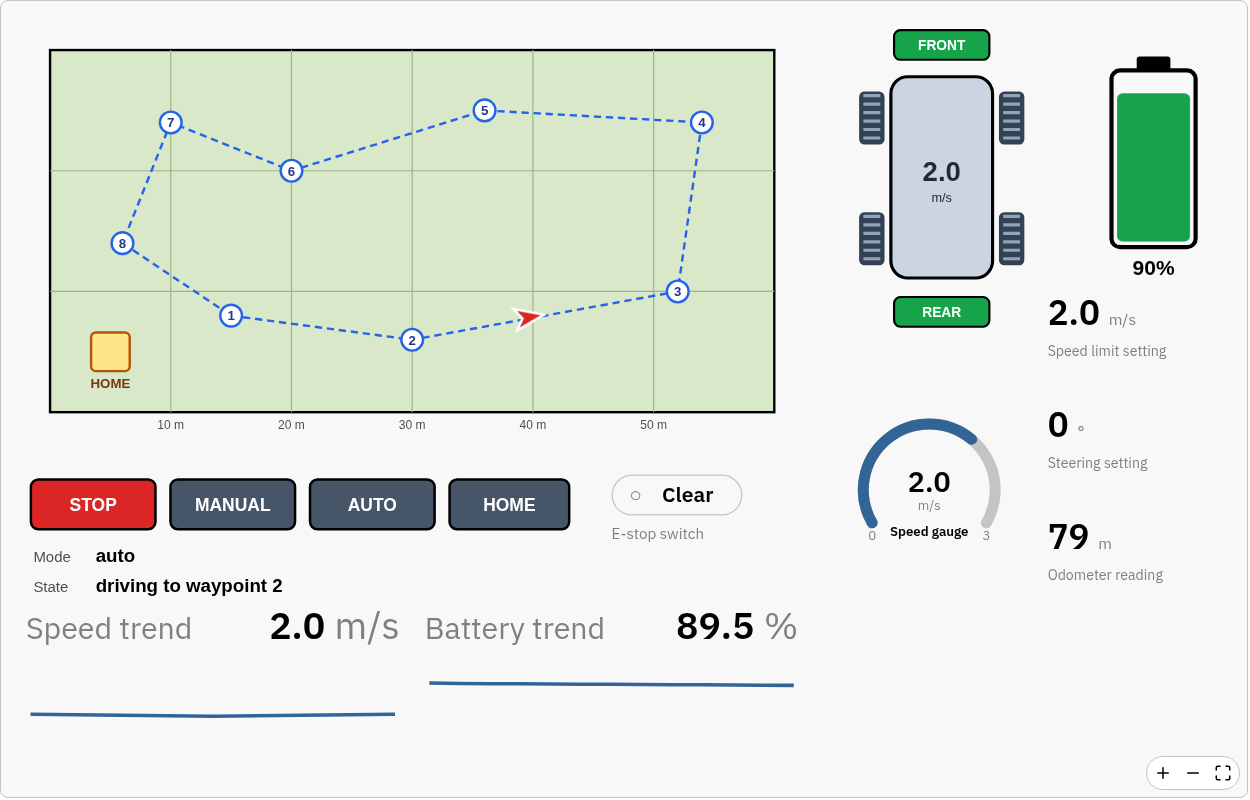
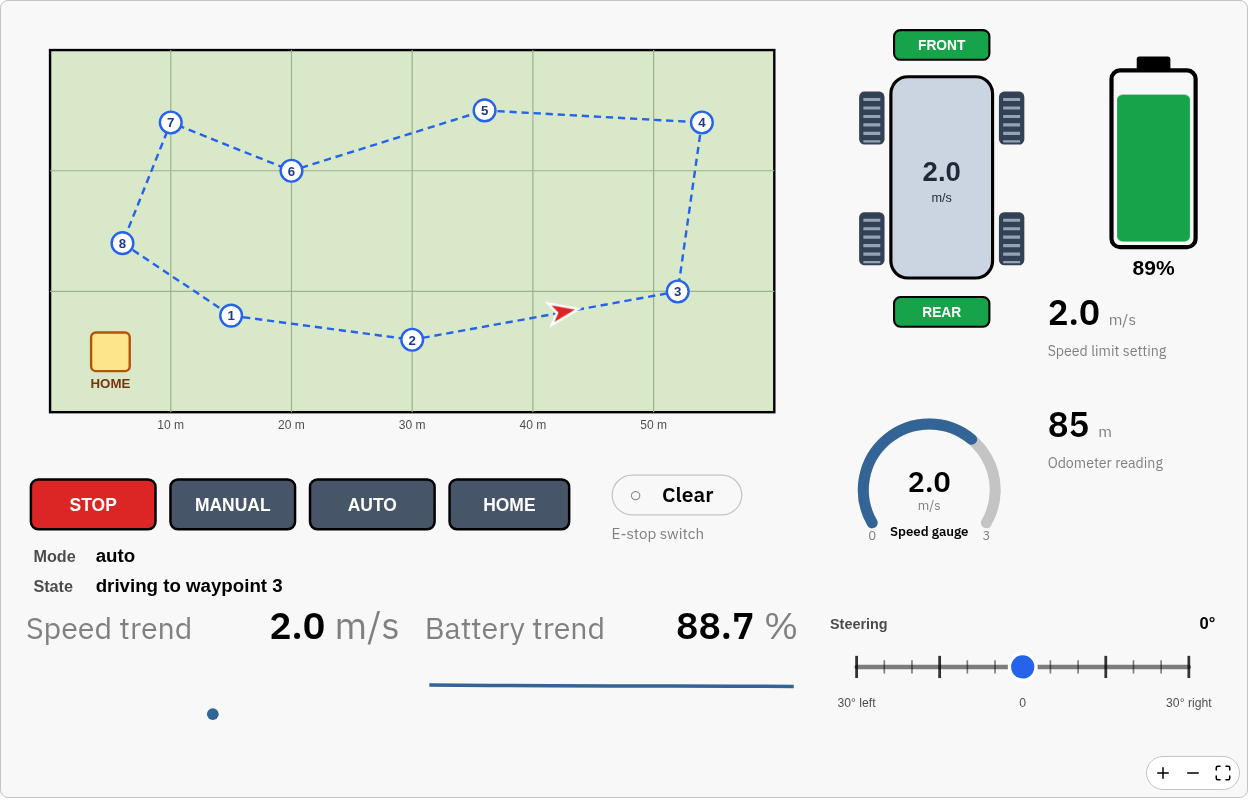
Add a steering slider and battery colors to the rover example
The steering value tile becomes a slider drawing: its knob follows the
command with data-siot-translate, and the track sets it in 5 degree steps
with data-siot-set. Outside manual mode rover.py keeps the steering
command at the wheel angle, so the slider follows the autonomy and
switching to manual does not jerk the wheels. A delete entry removes the
old tile from setups provisioned before.

The treads now roll with speed rather than with the drive commands, so
they stop when the rover stops, and turn the way a tire's top moves when
seen from above. An undriven tire is drawn lighter. The battery turns
yellow below half and red below a quarter.

diff --git a/python/examples/rover/rover.py b/python/examples/rover/rover.py
@@ -94,8 +94,13 @@ async def simulate(rover: Rover, cmd: Commands) -> None:
         await asyncio.sleep(SIM_PERIOD)
 
 
-async def report(c: simpleiot.Client, ids: dict[str, str], rover: Rover) -> None:
-    """Writes the rover's status, sending only values that changed."""
+async def report(c: simpleiot.Client, ids: dict[str, str], rover: Rover, cmd: Commands) -> None:
+    """Writes the rover's status, sending only values that changed.
+
+    Outside manual mode the steering command follows the wheels, so the
+    steering slider shows where the autonomy is steering, and switching to
+    manual starts from the current angle rather than jumping to an old one.
+    """
     last: dict[str, object] = {}
     while True:
         for desc, read in STATUS.items():
@@ -103,6 +108,10 @@ async def report(c: simpleiot.Client, ids: dict[str, str], rover: Rover) -> None
             if last.get(desc) != v:
                 await c.send_point(ids[desc], "value", v)
                 last[desc] = v
+        angle = round(rover.steering)
+        if cmd.mode != "manual" and angle != cmd.steering:
+            cmd.steering = angle
+            await c.send_point(ids["Steering command"], "value", angle)
         await asyncio.sleep(REPORT_PERIOD)
 
 
@@ -183,7 +192,7 @@ async def main() -> None:
         await asyncio.gather(
             read_commands(c, ids, cmd),
             simulate(rover, cmd),
-            report(c, ids, rover),
+            report(c, ids, rover, cmd),
         )
 
 

diff --git a/python/examples/rover/README.md b/python/examples/rover/README.md
@@ -25,14 +25,17 @@ describes.
 
 ## Things to try
 
-- **MANUAL**, then type a steering angle in **Steering setting**: the rover
-  drives in an arc at the speed limit.
+- **MANUAL**, then click the **Steering** slider: the rover drives in an arc at
+  the speed limit, turning left of center and right of it, in 5° steps. In the
+  other modes the slider follows the wheels, so manual starts from where the
+  rover is already steering.
 - **FRONT** or **REAR** on the rover drawing turns off that axle. With one axle
   the rover drives at 60% of the limit; with none it stops.
 - **E-stop** stops the rover at once, in any mode, until it is cleared.
 - **Speed limit setting** changes how fast the rover drives.
 - Leave it in **AUTO**: below 20% battery it drives home, charges to 95%, and
-  resumes the mission.
+  resumes the mission. The battery turns yellow below half and red below a
+  quarter, set by `data-siot-bands` in its drawing.
 
 With an [upstream sync](https://docs.simpleiot.org/docs/user/sync.html), the
 Rover group and its dashboard reach the cloud instance too. Commands from the
@@ -82,16 +85,23 @@ To set up the nodes without running the rover, apply the file by hand:
 
 ## How it works
 
-| File         | What it holds                                                   |
-| ------------ | --------------------------------------------------------------- |
-| `rover.yaml` | the Rover group, its variables, three drawings, and a dashboard |
-| `rover.py`   | the Simple IoT side: setup, commands in, status out, the map    |
-| `sim.py`     | the rover's motion, battery, and autonomy, with no SIOT code    |
+| File         | What it holds                                                  |
+| ------------ | -------------------------------------------------------------- |
+| `rover.yaml` | the Rover group, its variables, four drawings, and a dashboard |
+| `rover.py`   | the Simple IoT side: setup, commands in, status out, the map   |
+| `sim.py`     | the rover's motion, battery, and autonomy, with no SIOT code   |
 
 - **Commands and status are separate variables.** People write `Mode`,
   `Front drive`, `E-stop`, and the settings; only `rover.py` writes `X`,
   `Speed`, `Battery`, `State`, and the rest. The rover never reacts to its own
-  writes, and the dashboard shows both what was asked and what is happening.
+  writes, and the dashboard shows both what was asked and what is happening. The
+  one exception is `Steering command`: outside manual mode `rover.py` sets it to
+  the wheel angle, so the slider shows where the autonomy is steering and
+  switching to manual does not jerk the wheels.
+- **The steering slider is a drawing.** Its knob follows the command with
+  `data-siot-translate`, and the track holds a click target every 5° with
+  `data-siot-set`. `rover.yaml` also carries a `delete` entry for the value tile
+  the slider replaced, so applying it to an older setup removes the tile.
 - **Commands arrive through one subscription.** `subscribe_tree()` on the group
   delivers every change, and `rover.py` keeps those for the command nodes,
   loading their current values at start.
